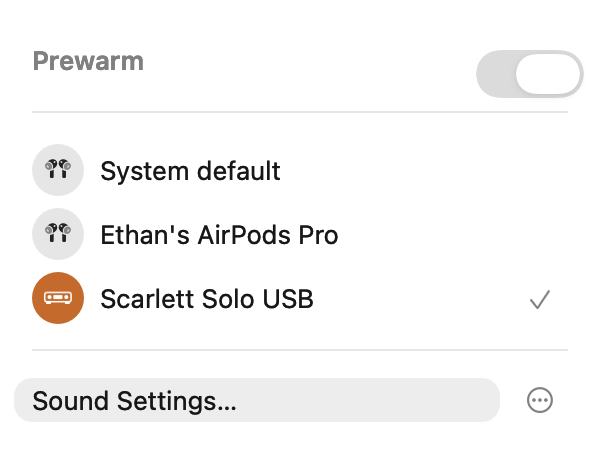
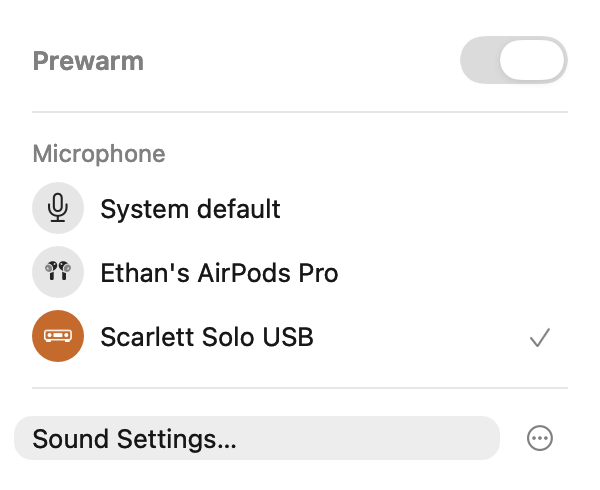
fix(ui): adopt native expanded status-item sessions

diff --git a/Sources/Prewarm/main.swift b/Sources/Prewarm/main.swift
@@ -13,7 +13,7 @@ final class AppDelegate: NSObject, NSApplicationDelegate {
     private var observers: [NSObjectProtocol] = []
     private var aboutWindow: NSWindow?
     private lazy var controls = makePanel()
-    private lazy var panelHost = PrewarmPanelHost(content: controls)
+    private lazy var panelHost = makePanelHost()
 
     func applicationDidFinishLaunching(_ notification: Notification) {
         let bundleID = Bundle.main.bundleIdentifier ?? "com.ethan.Prewarm"
@@ -23,12 +23,16 @@ final class AppDelegate: NSObject, NSApplicationDelegate {
         NSApp.setActivationPolicy(.accessory)
         if let iconURL = Bundle.main.url(forResource: "Prewarm", withExtension: "icns"), let icon = NSImage(contentsOf: iconURL) { NSApp.applicationIconImage = icon }
         statusItem = NSStatusBar.system.statusItem(withLength: NSStatusItem.squareLength)
-        statusItem.button?.setButtonType(.toggle)
-        (statusItem.button?.cell as? NSButtonCell)?.showsStateBy = .changeBackgroundCellMask
+        if #available(macOS 27.0, *) {
+            statusItem.expandedInterfaceDelegate = self
+        } else {
+            statusItem.button?.setButtonType(.toggle)
+            (statusItem.button?.cell as? NSButtonCell)?.showsStateBy = .changeBackgroundCellMask
+            statusItem.button?.target = self
+            statusItem.button?.action = #selector(togglePanel)
+        }
         statusItem.button?.image = IconArtwork.menuImage(active: false)
         statusItem.button?.toolTip = "Prewarm — Off"
-        statusItem.button?.target = self
-        statusItem.button?.action = #selector(togglePanel)
         engine.onState = { [weak self] state in
             guard let self else { return }
             self.state = state
@@ -46,6 +50,18 @@ final class AppDelegate: NSObject, NSApplicationDelegate {
             defaults.set(true, forKey: "hasShownSettings")
             DispatchQueue.main.async { [weak self] in self?.showPanel() }
         }
+    }
+    private func makePanelHost() -> PrewarmPanelHost {
+        let host = PrewarmPanelHost(content: controls)
+        host.onDismiss = { [weak self] in
+            guard let self else { return }
+            if #available(macOS 27.0, *), let session = self.statusItem.expandedInterfaceSession { session.cancel() }
+            else { self.panelHost.hide() }
+        }
+        host.onDidHide = { [weak self] in
+            if #available(macOS 27.0, *) { self?.statusItem.expandedInterfaceSession?.cancel() }
+        }
+        return host
     }
     private func makePanel() -> PrewarmPanel {
         let controls = PrewarmPanel()
@@ -68,7 +84,12 @@ final class AppDelegate: NSObject, NSApplicationDelegate {
         panelHost.refreshSize()
     }
     @objc private func togglePanel() { if panelHost.isShown { panelHost.dismiss() } else { showPanel() } }
-    private func showPanel() { guard let button = statusItem.button else { return }; refreshPanel(); panelHost.show(below: button) }
+    private func showPanel() {
+        if #available(macOS 27.0, *) {
+            if statusItem.expandedInterfaceSession == nil { statusItem.button?.performClick(nil) }
+        } else { presentPanel() }
+    }
+    private func presentPanel() { guard let button = statusItem.button else { return }; refreshPanel(); panelHost.show(below: button) }
     func applicationShouldHandleReopen(_ sender: NSApplication, hasVisibleWindows flag: Bool) -> Bool { showPanel(); return true }
     private func toggleEnabled() { enabled.toggle(); defaults.set(enabled, forKey: "enabled"); apply(); refreshPanel() }
     private func selectMicrophone(uid: String, name: String, kind: String) {
@@ -113,6 +134,11 @@ final class AppDelegate: NSObject, NSApplicationDelegate {
         try? FileManager.default.createDirectory(at: directory, withIntermediateDirectories: true)
         if let data = try? JSONEncoder().encode(state) { try? data.write(to: directory.appendingPathComponent("status.json"), options: .atomic) }
     }
+}
+@available(macOS 27.0, *)
+extension AppDelegate: NSStatusItemExpandedInterfaceDelegate {
+    func statusItem(_ statusItem: NSStatusItem, didBegin expandedInterfaceSession: NSStatusItemExpandedInterfaceSession) { presentPanel() }
+    func statusItemDidEndExpandedInterfaceSession(_ statusItem: NSStatusItem, animated: Bool) { panelHost.hide() }
 }
 let app = NSApplication.shared
 let delegate = AppDelegate()

diff --git a/Sources/Prewarm/PrewarmPanel.swift b/Sources/Prewarm/PrewarmPanel.swift
@@ -128,14 +128,20 @@ final class PrewarmPanel: NSViewController {
         header.textColor = .secondaryLabelColor
         warmingState.onChange = { [weak self] _ in self?.onToggle?() }
         warmingSwitch.setAccessibilityLabel("Keep microphone ready")
+        warmingSwitch.safeAreaRegions = []
+        warmingSwitch.sizingOptions = .intrinsicContentSize
+        warmingSwitch.setContentHuggingPriority(.required, for: .horizontal)
+        warmingSwitch.setContentHuggingPriority(.required, for: .vertical)
         let headerRow = NSView()
         for child in [header, warmingSwitch] { child.translatesAutoresizingMaskIntoConstraints = false; headerRow.addSubview(child) }
         NSLayoutConstraint.activate([
             headerRow.heightAnchor.constraint(equalToConstant: 28),
             header.leadingAnchor.constraint(equalTo: headerRow.leadingAnchor), header.centerYAnchor.constraint(equalTo: headerRow.centerYAnchor),
-            warmingSwitch.widthAnchor.constraint(equalToConstant: 38), warmingSwitch.heightAnchor.constraint(equalToConstant: 24),
             warmingSwitch.trailingAnchor.constraint(equalTo: headerRow.trailingAnchor), warmingSwitch.centerYAnchor.constraint(equalTo: headerRow.centerYAnchor)
         ])
+        let micHeader = NSTextField(labelWithString: "Microphone")
+        micHeader.font = .systemFont(ofSize: 12, weight: .regular)
+        micHeader.textColor = .secondaryLabelColor
         deviceStack.orientation = .vertical
         deviceStack.distribution = .fill
         deviceStack.setHuggingPriority(.required, for: .vertical)
@@ -179,7 +185,7 @@ final class PrewarmPanel: NSViewController {
         more.widthAnchor.constraint(equalToConstant: 28).isActive = true
         more.heightAnchor.constraint(equalToConstant: 28).isActive = true
         let headerDivider = separator()
-        let stack = NSStackView(views: [headerRow, headerDivider, deviceStack, separator(), footer])
+        let stack = NSStackView(views: [headerRow, headerDivider, micHeader, deviceStack, separator(), footer])
         contentStack = stack
         stack.orientation = .vertical
         stack.distribution = .fill
@@ -188,10 +194,12 @@ final class PrewarmPanel: NSViewController {
         stack.spacing = 10
         stack.setCustomSpacing(12, after: headerRow)
         stack.setCustomSpacing(12, after: headerDivider)
+        stack.setCustomSpacing(4, after: micHeader)
         stack.translatesAutoresizingMaskIntoConstraints = false
         content.addSubview(stack)
         headerRow.translatesAutoresizingMaskIntoConstraints = false
         headerRow.widthAnchor.constraint(equalTo: stack.widthAnchor, constant: -18).isActive = true
+        micHeader.widthAnchor.constraint(equalTo: stack.widthAnchor, constant: -18).isActive = true
         deviceStack.widthAnchor.constraint(equalTo: stack.widthAnchor).isActive = true
         footer.widthAnchor.constraint(equalTo: stack.widthAnchor).isActive = true
         for divider in stack.arrangedSubviews.compactMap({ $0 as? NSBox }) { divider.widthAnchor.constraint(equalTo: stack.widthAnchor, constant: -18).isActive = true }
@@ -229,8 +237,7 @@ final class PrewarmPanel: NSViewController {
         else if state?.targetUID != nil { status.stringValue = "Starting…" }
         else { status.stringValue = "Waiting for microphone" }
         status.isHidden = status.stringValue == "Ready" || status.stringValue == "Off"
-        let defaultIcon = CapturePolicy.systemDefaultIcon(defaultUID: state?.systemDefaultUID, available: state?.available ?? [])
-        var choices = [("System default", "", defaultIcon)]
+        var choices = [("System default", "", "microphone")]
         choices += (state?.available ?? []).sorted(by: { $0.name.localizedCaseInsensitiveCompare($1.name) == .orderedAscending }).map { ($0.name, $0.uid, $0.iconKind) }
         if !selection.isEmpty && !choices.contains(where: { $0.1 == selection }) { choices.append(("\(missingName) (disconnected)", selection, missingKind)) }
         let fingerprint = choices.map { "\($0.0)|\($0.1)|\($0.2)|\($0.1 == selection)" }

diff --git a/Sources/Prewarm/PrewarmPanelHost.swift b/Sources/Prewarm/PrewarmPanelHost.swift
@@ -11,6 +11,8 @@ private final class FloatingPanel: NSPanel {
 
 /// One native panel/window frame and one supported material, without popover chrome.
 final class PrewarmPanelHost {
+    var onDismiss: (() -> Void)?
+    var onDidHide: (() -> Void)?
     let content: PrewarmPanel
     private let panel: FloatingPanel
     private weak var anchor: NSStatusBarButton?
@@ -66,9 +68,11 @@ final class PrewarmPanelHost {
         refreshSize()
         position(below: button)
         panel.makeKeyAndOrderFront(nil)
-        button.state = .on
-        button.cell?.isHighlighted = true
-        button.needsDisplay = true
+        if #unavailable(macOS 27.0) {
+            button.state = .on
+            button.cell?.isHighlighted = true
+            button.needsDisplay = true
+        }
         installMonitors()
     }
     private func position(below button: NSStatusBarButton) {
@@ -77,21 +81,30 @@ final class PrewarmPanelHost {
         let visible = screen.visibleFrame
         let size = panel.frame.size
         let x = min(max(rect.midX - size.width / 2, visible.minX + 8), visible.maxX - size.width - 8)
-        let y = max(visible.minY + 8, min(rect.minY, visible.maxY) - 6 - size.height)
+        // The 27 reference starts 1pt below the bar edge; its pill ends 3pt above it.
+        let edgeGap: CGFloat
+        if #available(macOS 27.0, *) { edgeGap = 1 } else { edgeGap = 6 }
+        let y = max(visible.minY + 8, min(rect.minY, visible.maxY) - edgeGap - size.height)
         panel.setFrameOrigin(NSPoint(x: x, y: y))
     }
     func dismiss() {
+        if let onDismiss { onDismiss() } else { hide() }
+    }
+    func hide() {
         panel.orderOut(nil)
     }
     private func clearPresentation() {
-        anchor?.state = .off
-        anchor?.cell?.isHighlighted = false
-        anchor?.needsDisplay = true
+        if #unavailable(macOS 27.0) {
+            anchor?.state = .off
+            anchor?.cell?.isHighlighted = false
+            anchor?.needsDisplay = true
+        }
         anchor = nil
         if let monitor = globalMonitor { NSEvent.removeMonitor(monitor) }
         if let monitor = localMonitor { NSEvent.removeMonitor(monitor) }
         globalMonitor = nil
         localMonitor = nil
+        onDidHide?()
     }
     private func installMonitors() {
         guard globalMonitor == nil && localMonitor == nil else { return }
@@ -106,8 +119,10 @@ final class PrewarmPanelHost {
         }
     }
     deinit {
-        anchor?.state = .off
-        anchor?.cell?.isHighlighted = false
+        if #unavailable(macOS 27.0) {
+            anchor?.state = .off
+            anchor?.cell?.isHighlighted = false
+        }
         if let monitor = globalMonitor { NSEvent.removeMonitor(monitor) }
         if let monitor = localMonitor { NSEvent.removeMonitor(monitor) }
     }

diff --git a/scripts/AppearanceReview/main.swift b/scripts/AppearanceReview/main.swift
@@ -6,7 +6,7 @@ let root = CommandLine.arguments[1]
 let app = NSApplication.shared
 app.setActivationPolicy(.prohibited)
 app.applicationIconImage = NSImage(contentsOfFile: "\(root)/assets/Prewarm.icns")!
-let controller = AboutController(info: ["CFBundleShortVersionString": "0.1.2", "CFBundleVersion": "14"])
+let controller = AboutController(info: ["CFBundleShortVersionString": "0.1.2", "CFBundleVersion": "15"])
 let window = PrewarmWindow(contentRect: NSRect(x: 0, y: 0, width: 320, height: 460), styleMask: [.titled, .closable, .fullSizeContentView], backing: .buffered, defer: false)
 window.contentViewController = controller
 for (name, appearanceName) in [("light", NSAppearance.Name.aqua), ("dark", NSAppearance.Name.darkAqua)] {
@@ -42,6 +42,11 @@ let soundButton = children.compactMap { $0 as? NSButton }.first { $0.accessibili
 let moreButton = children.compactMap { $0 as? NSButton }.first { $0.accessibilityLabel() == "More" }!
 let section = children.compactMap { $0 as? NSTextField }.first { $0.stringValue == "Prewarm" }!
 let headerRect = section.convert(section.alignmentRect(forFrame: section.bounds), to: panelContent.view)
+let switchHost = children.first { $0.accessibilityLabel() == "Keep microphone ready" }!
+let switchRect = switchHost.convert(switchHost.alignmentRect(forFrame: switchHost.bounds), to: panelContent.view)
+precondition(switchRect.midY == headerRect.midY)
+precondition(switchHost.bounds.size == switchHost.intrinsicContentSize)
+print("Header: native switch intrinsic=\(switchHost.intrinsicContentSize), title/switch center=\(headerRect.midY); no fixed size or optical offset")
 let rowRect = deviceRow.convert(deviceRow.bounds, to: panelContent.view)
 let badge = deviceRow.subviews[0]
 precondition(deviceRow.bounds.height == 32 && badge.frame.size == NSSize(width: 26, height: 26))

diff --git a/README.md b/README.md
@@ -1,10 +1,10 @@
 # Prewarm
 
-Prewarm 0.1.2 (build 14), by Ethan Proia.
+Prewarm 0.1.2 (build 15), by Ethan Proia.
 
 A tiny macOS menu-bar utility that keeps your microphone warm by keeping its input stream active. It immediately discards audio samples; it does not record, analyze, save, or transmit audio. No third-party dependencies or network calls.
 
-Click the menu-bar icon and select **System default** under Microphone to follow the current macOS input, or choose a specific microphone. Device icons distinguish known AirPods models, headsets, microphones, interfaces, virtual/aggregate devices and generic inputs using detected transport plus explicit product/model hints. Ambiguous USB devices use a connector; USB transport cannot identify the downstream XLR microphone. An explicit choice is pinned by device UID: reconnecting AirPods or changing the system default does not switch it. If the selected microphone disconnects, Prewarm waits instead of opening another mic. The native switch opposite **Prewarm** enables or disables warming; disabling releases the input. Its accessible label is Keep microphone ready. System default shows the current macOS default input's icon, even while a different microphone is explicitly selected, with a plain microphone fallback. State and selection persist across relaunches; first launch is off. A native floating NSPanel opens below the menu-bar icon or by reopening the app, and dismisses on an outside click or Escape. It has no popover pointer or close control. The system window owns its corners and one public native material hosts the prior controls; device-row hover remains minimal AppKit drawing. Sound Settings is directly accessible; the native More menu contains About, Microphone Privacy and Quit.
+Click the menu-bar icon and select **System default** under Microphone to follow the current macOS input, or choose a specific microphone. Device icons distinguish known AirPods models, headsets, microphones, interfaces, virtual/aggregate devices and generic inputs using detected transport plus explicit product/model hints. Ambiguous USB devices use a connector; USB transport cannot identify the downstream XLR microphone. An explicit choice is pinned by device UID: reconnecting AirPods or changing the system default does not switch it. If the selected microphone disconnects, Prewarm waits instead of opening another mic. The native switch opposite **Prewarm** enables or disables warming; disabling releases the input. Its accessible label is Keep microphone ready. System default uses a plain microphone icon; real devices retain their detected icons. State and selection persist across relaunches; first launch is off. A native floating NSPanel opens below the menu-bar icon or by reopening the app, and dismisses on an outside click or Escape. It has no popover pointer or close control. The system window owns its corners and one public native material hosts the prior controls; device-row hover remains minimal AppKit drawing. Sound Settings is directly accessible; the native More menu contains About, Microphone Privacy and Quit.
 
 macOS 14 or later; Xcode command-line tools with Swift 5.9 or later.
 
@@ -19,6 +19,8 @@ For a permanent local installation, quit Prewarm, copy `build/Prewarm.app` to `~
 The local build is ad-hoc signed because no signing identity is available. The current ad-hoc designated requirement is tied to the executable code-directory hash (verified with `codesign -d -r-`). Changing and re-signing the app changes that identity, so macOS may ask for microphone permission again. The stable bundle ID alone does not prevent this. No permission bypass or TCC modification is attempted. `PREWARM_SIGNING_IDENTITY` can supply a real signing identity; distribution, notarization, remote publication, and Homebrew submission are deferred. A privately maintained local self-signed identity could give development builds a certificate-based identity, but creating/importing its certificate and private key or changing trust is a separate Keychain/security operation; this project has not done so. It would not substitute for Developer ID signing or notarization for distribution.
 
 ## Recovery and privacy
+
+On macOS27+, the public [expanded-interface delegate](https://developer.apple.com/documentation/appkit/nsstatusitem/expandedinterfacedelegate) owns status-item tracking, menu-bar selection and keyboard participation while the native panel is open. Outside clicks, Escape and panel actions cancel its session; the native end callback hides the panel. macOS14–26 retains the prior manual fallback. Actual selected-background rendering and external placement are verified on the running system, not inferred from an offscreen button-state test.
 
 More contains separate **Open at Login** and **Enable at Login** settings, initially off. Open at Login uses macOS ServiceManagement and changes registration only when clicked; its checkmark reflects the actual system status. Enable at Login is available only while opening at login is active. A confirmed login launch uses this warming preference for that session, preserving the saved normal/manual enabled preference. Manual relaunches still restore the saved warming state. Registration failures and required approval offer a native route to Login Items settings. No login registration is performed at installation or startup.
 

diff --git a/assets/icon-review.md b/assets/icon-review.md
@@ -73,3 +73,9 @@ Status selection now uses a public native toggle-type NSStatusBarButton with sho
 Build 14 simplifies the main panel to Prewarm with a native accessible switch in the header, one divider, aligned device rows and the existing footer. The separate warming row, visible On/Off text and Microphone heading are removed. Native frame/content fit226pt with three choices; hover hit areas and check/More alignment remain. System default's symbol now follows the independent current macOS defaultUID metadata, never the pinned capture target; absent/unknown defaults use a plain microphone. The existing read-only CoreAudio default lookup is sampled once per reconciliation, with no new capture operations or restart criteria.
 
 More adds default-off Open at Login and Enable at Login native checked items. SMAppService registration/unregistration happens only in the first item's click handler, with system status reflected and actionable approval/error notices. Enable at Login is disabled until Open at Login is active. Documented Apple-event reason detection is synchronous at applicationDidFinishLaunching; login session warming is separate from normal saved state and first-run UI is suppressed on a confirmed login. Core tests exercise manual/login combinations and default-vs-pinned icon resolution; synthetic descriptors cover nil/missing/service/reopen/wrong-class reasons. No test or fixture registers a login item, mutates preferences, starts capture or logs out. Actual registration and login are not claimed tested.
+
+Build 15 restores Microphone12pt regular secondary below the header divider, keeping the compact Prewarm/switch header. The hosted switch had inherited the full-size native window's titlebar safe area; setting safeAreaRegions=[] and using its native54×24 intrinsic size fixes the demonstrated offset without a baked translation. The fixture asserts equal title/control centers and an uncompressed intrinsic control; rendered light/dark pairs were inspected. System default is now always the user-requested plain mic symbol; independent defaultUID metadata remains read-only. All internal header gaps remain12pt.
+
+Current macOS27.0.1 uses the new public [NSStatusItemExpandedInterfaceDelegate](https://developer.apple.com/documentation/appkit/nsstatusitemexpandedinterfacedelegate), documented in the installed27SDK specifically for windows positioned beneath status items instead of manual button target/action. Native sessions begin the panel and end it; external dismissals cancel the active session. Session is cleared before the end callback, preventing cancel/hide recursion. No manual cell state/highlight, repaint timers or custom background remains on27;14–26 keeps the explicit older fallback. No additional cache/render probes were added. This is native tracking ownership, while visible pill success remains the user's live screenshot gate.
+
+The native Mic Mode reference shows its selected pill ending at54px, the menu bar edge at60px and panel top at62px at2×. On27, placement therefore starts1pt below the actual bar boundary (3pt inset plus1pt outside gives4pt visible gap), using converted button bounds capped by visibleFrame. Older fallback retains6pt. This is a reference-derived placement candidate, not a claimed measurement of the live Prewarm pill. Native frame/content fit245pt with three choices; selected check and More centers stay equal. Root performs real session opening, delayed bar inspection, external-gap and dismissal acceptance before claiming those visual outcomes.
